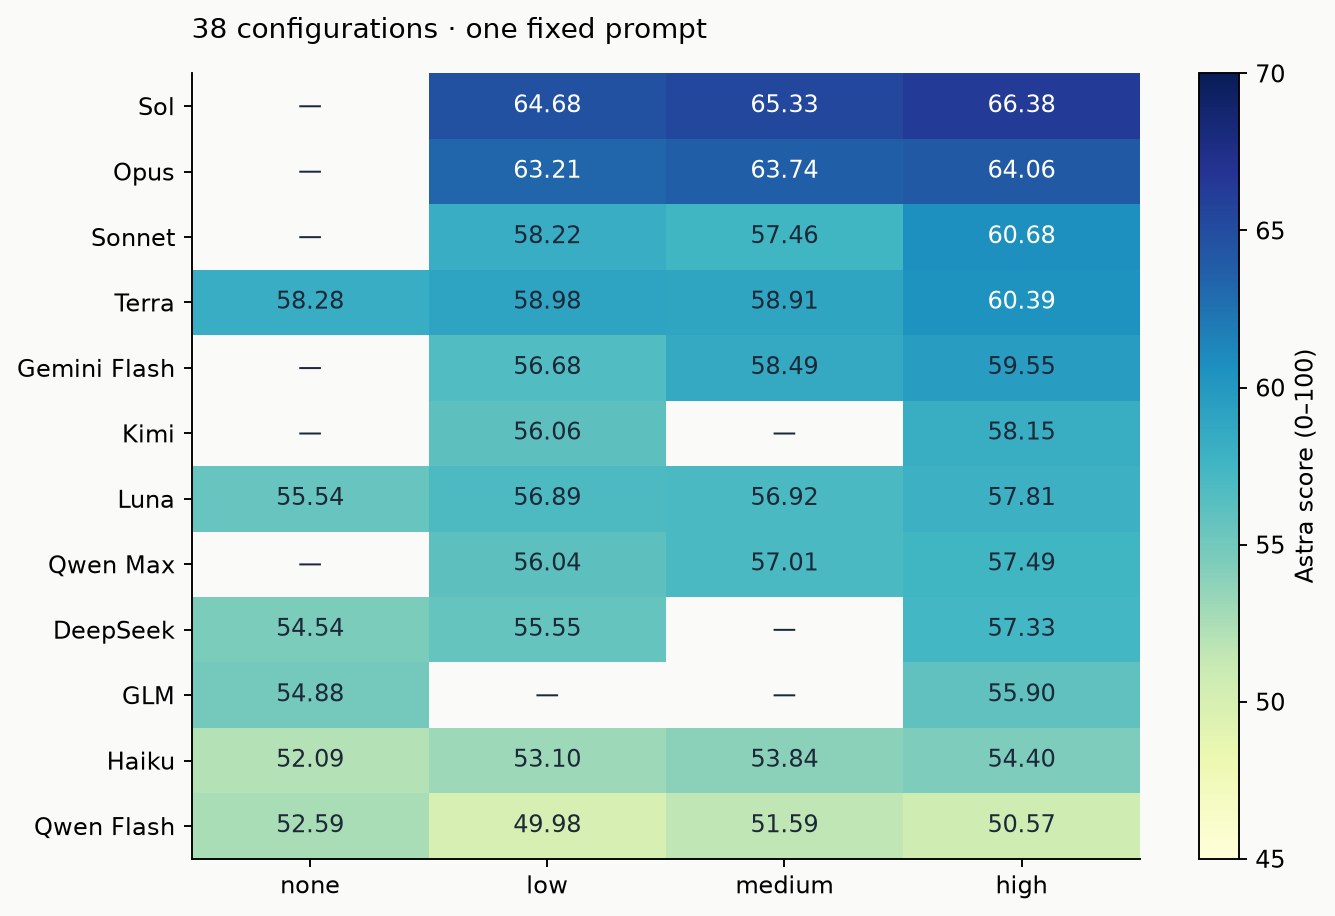
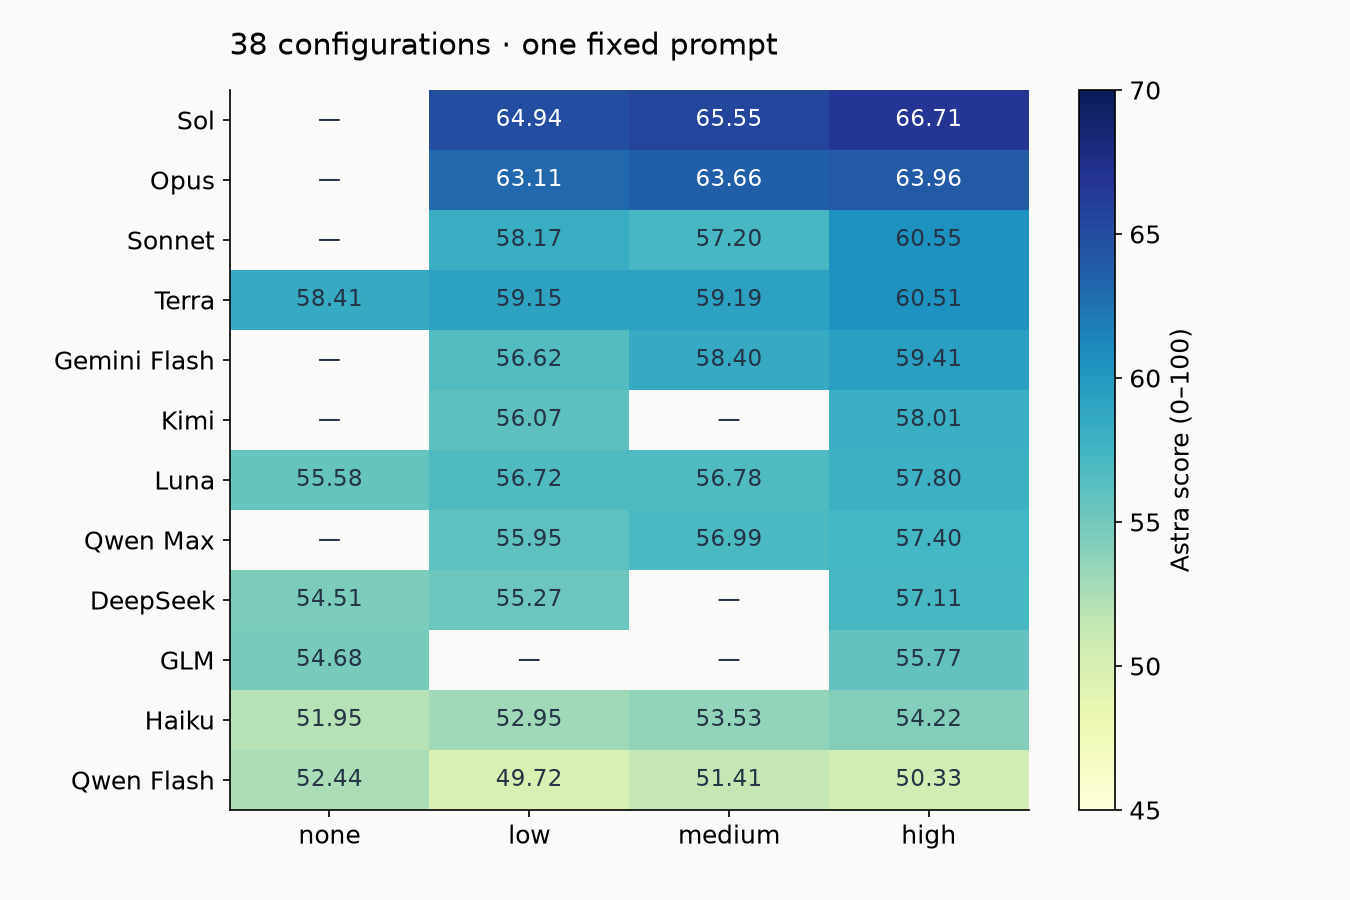
[KNK-1422] Docs: 채팅 AI 벤치마크 재집계 결과와 그래프 갱신

diff --git a/docs/domain/CHAT/AI/6-6-AI-PERFORMANCE-REPORT.md b/docs/domain/CHAT/AI/6-6-AI-PERFORMANCE-REPORT.md
@@ -16,11 +16,11 @@
 | --- | --- |
 | 모델·추론 강도 | 12종, 지원 조합 38개 |
 | 고정 프롬프트 | `chat-general-v2` |
-| 입력 데이터 | `test` |
+| 입력 데이터 | `test-exclude-s21-s49-s57-20261020`, 59개 샘플 |
 | 생성 방식 | 기존 대화의 마지막 AI 답변 1개, 스트리밍 호출 |
 | 평가자 | `gpt-6-astra / high` |
 | 채점 방식 | 평가 모델 프롬프트 v0.3, `single-tail`, 오프라인 평가 |
-| 집계 규모 | 생성 2,356건, 채점 7,068건 |
+| 집계 규모 | 생성 2,242건, 채점 6,726건 |
 
 <details>
 <summary><b>데이터 출처</b></summary>
@@ -29,24 +29,27 @@
 
 | 데이터 | 출처 |
 | --- | --- |
-| 실행 설정·코드 버전 | `evaluation/runs/grid-v2-r1/run.json` |
-| 평가 입력 | `evaluation/datasets/test/*.json` |
+| 원본 실행 설정·코드 버전 | `evaluation/chat/runs/grid-v2-r1/run.json` |
+| 현재 집계 설정·응답 교체 목록 | `evaluation/chat/runs/grid-v2-r1-filtered59-r1-20261020/run.json` |
+| 평가 입력 | `evaluation/chat/datasets/test-exclude-s21-s49-s57-20261020/*.json` — 원본 `test`에서 S21, S49, S57 제외 |
 | 분량 지시 | `prompt/chat/general/CHAT-TEMPLATE-v2.md` 6절 |
-| 생성 결과·시간·토큰·비용 | `evaluation/runs/grid-v2-r1/<config>/*.gen.json` |
-| Astra 3회 채점 결과 | `evaluation/runs/grid-v2-r1/<config>/*.judge-astra.json` |
-| 복구한 첫 토큰 시간 | `evaluation/runs/grid-v2-r1/ttft-recovery/qwen-matched.json`·`openrouter-matched.json` |
-| GLM·DeepSeek TTFT 실측 | `evaluation/runs/grid-v2-r1-ttft/grid-v2-r1-ttft-glm-deepseek-20261018/results.json` |
-| GLM TTFT 재측정 | `evaluation/runs/grid-v2-r1-ttft/grid-v2-r1-ttft-glm-repeat-20261018/results.json` |
+| 생성 결과·시간·토큰·비용 | `evaluation/chat/runs/grid-v2-r1-filtered59-r1-20261020/<config>/*.gen.json` |
+| Astra 3회 채점 결과 | `evaluation/chat/runs/grid-v2-r1-filtered59-r1-20261020/<config>/*.judge-astra.json` — 기존 6,714회와 재생성 응답 4건의 신규 12회 |
+| 채택한 1차 재생성 3건·코드 버전 | `evaluation/chat/runs/grid-v2-r1-remaining-refusals-retry-20261020-143836/`의 `run.json`과 `<config>/<sample>.gen.json` — Terra low의 S38, Luna none의 S33, Haiku none의 S11 |
+| 채택한 2차 재생성 1건·코드 버전 | `evaluation/chat/runs/grid-v2-r1-terra-medium-s33-retry2-20261020-144056/`의 `run.json`과 `general-v2__gpt-5.6-terra__medium/S33.gen.json` — Terra medium의 S33 |
+| 복구한 첫 토큰 시간 | `evaluation/chat/runs/grid-v2-r1/ttft-recovery/qwen-matched.json`·`openrouter-matched.json` |
+| GLM·DeepSeek TTFT 실측 | `evaluation/chat/runs/grid-v2-r1-ttft/grid-v2-r1-ttft-glm-deepseek-20261018/results.json` |
+| GLM TTFT 재측정 | `evaluation/chat/runs/grid-v2-r1-ttft/grid-v2-r1-ttft-glm-repeat-20261018/results.json` |
 | Kimi 길이별 TTFT 선정 | high: 전체 62개 입력의 최소·중앙·최대(S24·S07·S62), low: 복구된 18개 입력의 최소·중앙·최대(S57·S58·S62). 평균은 선택한 3건의 산술평균이며 공급자 첫 토큰 기준 |
-| Gemini TTFT 실측 | `evaluation/runs/grid-v2-r1-ttft/grid-v2-r1-ttft-gemini-20261018/results.json` |
-| GPT Luna TTFT 실측 | `evaluation/runs/grid-v2-r1-ttft/grid-v2-r1-ttft-luna-20261018/results.json` |
-| Haiku·Sonnet TTFT 실측 | `evaluation/runs/grid-v2-r1-ttft/grid-v2-r1-ttft-haiku-sonnet-20261018/results.json` |
-| Sol low TTFT 실측 | `evaluation/runs/grid-v2-r1-ttft/grid-v2-r1-ttft-sol-low-openrouter-20261018/results.json` — OpenRouter → OpenAI 경로, 길이별 1건의 첫 본문 도착 시간 |
-| Sol medium TTFT 실측 | `evaluation/runs/grid-v2-r1-ttft/grid-v2-r1-ttft-sol-medium-openrouter-retry-20261018/results.json` — 짧음·중간은 OpenRouter → OpenAI, 긴 입력은 아래 OpenAI 직접 API 실측값 사용 |
-| Opus TTFT 실측 | `evaluation/runs/grid-v2-r1-ttft/grid-v2-r1-ttft-opus-20261018/results.json` |
-| Terra none TTFT 실측 | `evaluation/runs/grid-v2-r1-ttft/grid-v2-r1-ttft-terra-none-openrouter-20261018/results.json` — 짧음·중간은 OpenRouter → OpenAI, 긴 입력은 아래 OpenAI 직접 API 실측값 사용 |
-| GPT 잔여 TTFT 실측 | `evaluation/runs/grid-v2-r1-ttft/grid-v2-r1-ttft-gpt-direct-remaining-20261019/results.json` — OpenAI 직접 API, 14건 |
-| 집계 기준 시점 | 2026-10-19 KST |
+| Gemini TTFT 실측 | `evaluation/chat/runs/grid-v2-r1-ttft/grid-v2-r1-ttft-gemini-20261018/results.json` |
+| GPT Luna TTFT 실측 | `evaluation/chat/runs/grid-v2-r1-ttft/grid-v2-r1-ttft-luna-20261018/results.json` |
+| Haiku·Sonnet TTFT 실측 | `evaluation/chat/runs/grid-v2-r1-ttft/grid-v2-r1-ttft-haiku-sonnet-20261018/results.json` |
+| Sol low TTFT 실측 | `evaluation/chat/runs/grid-v2-r1-ttft/grid-v2-r1-ttft-sol-low-openrouter-20261018/results.json` — OpenRouter → OpenAI 경로, 길이별 1건의 첫 본문 도착 시간 |
+| Sol medium TTFT 실측 | `evaluation/chat/runs/grid-v2-r1-ttft/grid-v2-r1-ttft-sol-medium-openrouter-retry-20261018/results.json` — 짧음·중간은 OpenRouter → OpenAI, 긴 입력은 아래 OpenAI 직접 API 실측값 사용 |
+| Opus TTFT 실측 | `evaluation/chat/runs/grid-v2-r1-ttft/grid-v2-r1-ttft-opus-20261018/results.json` |
+| Terra none TTFT 실측 | `evaluation/chat/runs/grid-v2-r1-ttft/grid-v2-r1-ttft-terra-none-openrouter-20261018/results.json` — 짧음·중간은 OpenRouter → OpenAI, 긴 입력은 아래 OpenAI 직접 API 실측값 사용 |
+| GPT 잔여 TTFT 실측 | `evaluation/chat/runs/grid-v2-r1-ttft/grid-v2-r1-ttft-gpt-direct-remaining-20261019/results.json` — OpenAI 직접 API, 14건 |
+| 집계 기준 시점 | 2026-10-20 KST |
 
 </details>
 
@@ -59,55 +62,77 @@
 
 **2. 결과와 패턴**
 
-- Qwen 434건과 Kimi 63건은 OpenRouter 경로로 생성되었다.
+- Qwen 413건과 Kimi 59건은 OpenRouter 경로로 생성되었다.
 - 환율은 1$ = 1,345원으로 계산했다.
-- short·mid·long은 조합별 입력 토큰 수가 최소·중앙·최대인 각 1건이다. 모델별 토큰 수가 달라 범위로 표기했다(Kimi low는 복구된 18건 기준).
+- Haiku는 입력 10만 토큰 초과 요청 8건에 입력·출력 단가 5배를 적용했다.
+- DeepSeek 비용은 동일 토큰 사용량에 피크시간과 비피크시간 단가를 각각 적용했다.
+- TTFT 측정에는 벤치마크에서 제외한 S57 샘플이 포함되어 있다.
+- short·mid·long은 조합별 입력 토큰 수가 최소·중앙·최대인 각 1건이다. 모델별 토큰 수가 달라 범위로 표기했다.
   - short: 4,343~8,436토큰
   - mid: 9,046~22,139토큰
   - long: 149,875~276,231토큰
-- Haiku는 입력 10만 토큰 초과 요청 8건에 입력·출력 단가 5배를 적용했다.
-- DeepSeek 비용은 동일 토큰 사용량에 피크시간과 비피크시간 단가를 각각 적용했다.
+
+<details>
+<summary><b>short, mid, long 측정 샘플</b></summary>
+
+<br>
+
+| 모델 공급사 | 적용 조합 | short | mid | long |
+| --- | --- | --- | --- | --- |
+| OpenAI | GPT 전체 | S14 | S06 | S62 |
+| Google | Gemini 전체 | S24 | S06 | S62 |
+| DeepSeek | DeepSeek 전체 | S57 | S06 | S62 |
+| Alibaba | Qwen 전체 | S57 | S06 | S62 |
+| Z.ai | GLM 전체 | S57 | S07 | S62 |
+| Anthropic | Opus, Sonnet 전체와 Haiku low, medium, high | S57 | S07 | S62 |
+| Anthropic | Haiku none | S24 | S07 | S62 |
+| Moonshot AI | Kimi high | S24 | S07 | S62 |
+| Moonshot AI | Kimi low | S57 | S58 | S62 |
+
+</details>
+
+<br>
 
 | id | configuration | 평균 점수 | 3회 점수 | TTFT 평균 (초) | TTFT short (초) | TTFT mid (초) | TTFT long (초) | 생성 p95 (초) | 비용(달러/턴) | 비용(원/턴) |
 | ---: | --- | ---: | --- | ---: | ---: | ---: | ---: | ---: | ---: | ---: |
-| 1 | `gpt-6.1-sol / high` | 66.38 | 66.73<br>66.23<br>66.19 | 34.45 | 28.15 | 43.15 | 32.04 | 75.2 | $0.05550 | 74.65원 |
-| 2 | `gpt-6.1-sol / medium` | 65.33 | 65.40<br>65.48<br>65.10 | 7.16 | 5.33 | 9.47 | 6.67 | 47.8 | $0.04754 | 63.94원 |
-| 3 | `gpt-6.1-sol / low` | 64.68 | 64.73<br>64.65<br>64.68 | 3.86 | 2.88 | 3.54 | 5.15 | 37.2 | $0.04578 | 61.57원 |
-| 4 | `claude-opus-5-5 / high` | 64.06 | 64.24<br>63.95<br>63.98 | 13.55 | 7.16 | 17.31 | 16.17 | 66.7 | $0.18849 | 253.52원 |
-| 5 | `claude-opus-5-5 / medium` | 63.74 | 63.55<br>63.44<br>64.23 | 9.90 | 5.70 | 11.03 | 12.98 | 43.8 | $0.16511 | 222.08원 |
-| 6 | `claude-opus-5-5 / low` | 63.21 | 63.19<br>63.35<br>63.08 | 7.57 | 5.65 | 8.47 | 8.58 | 33.1 | $0.15169 | 204.02원 |
-| 7 | `claude-sonnet-5-5 / high` | 60.68 | 60.84<br>60.68<br>60.53 | 9.71 | 4.02 | 15.31 | 9.79 | 38.0 | $0.08326 | 111.99원 |
-| 8 | `gpt-5.6-terra / high` | 60.39 | 60.37<br>60.39<br>60.40 | 5.44 | 2.41 | 7.16 | 6.73 | 40.0 | $0.05274 | 70.94원 |
-| 9 | `gemini-3.8-flash / high` | 59.55 | 59.71<br>59.61<br>59.34 | 19.73 | 22.48 | 19.50 | 17.22 | 75.2 | $0.02703 | 36.35원 |
-| 10 | `gpt-5.6-terra / low` | 58.98 | 59.24<br>58.77<br>58.94 | 2.53 | 1.28 | 2.51 | 3.81 | 18.9 | $0.04554 | 61.25원 |
-| 11 | `gpt-5.6-terra / medium` | 58.91 | 59.03<br>58.68<br>59.02 | 2.54 | 1.28 | 1.64 | 4.71 | 19.3 | $0.04670 | 62.81원 |
-| 12 | `gemini-3.8-flash / medium` | 58.49 | 58.35<br>58.82<br>58.31 | 5.75 | 4.60 | 5.79 | 6.87 | 25.9 | $0.01774 | 23.86원 |
-| 13 | `gpt-5.6-terra / none` | 58.28 | 57.94<br>58.69<br>58.21 | 2.34 | 1.88 | 1.87 | 3.26 | 13.4 | $0.04160 | 55.95원 |
-| 14 | `claude-sonnet-5-5 / low` | 58.22 | 58.08<br>58.18<br>58.40 | 4.50 | 1.05 | 1.32 | 11.15 | 17.8 | $0.06678 | 89.82원 |
-| 15 | `kimi-k3 / high` | 58.15 | 57.90<br>58.23<br>58.32 | 12.83 | 5.42 | 9.84 | 23.24 | 50.6 | $0.09508 | 127.88원 |
-| 16 | `gpt-6-luna / high` | 57.81 | 57.65<br>57.95<br>57.84 | 19.60 | 7.86 | 29.46 | 21.48 | 47.2 | $0.00292 | 3.93원 |
-| 17 | `qwen3.8-max / high` | 57.49 | 57.44<br>57.31<br>57.74 | 3.69 | 1.83 | 2.29 | 6.95 | 362.5 | $0.07696 | 103.51원 |
-| 18 | `claude-sonnet-5-5 / medium` | 57.46 | 57.19<br>57.47<br>57.71 | 5.11 | 3.06 | 1.35 | 10.90 | 23.7 | $0.06935 | 93.27원 |
-| 19 | `deepseek-flash / high` | 57.33 | 57.50<br>57.40<br>57.08 | 4.56 | 4.15 | 4.05 | 5.47 | 38.4 | $0.00915<br>$0.00457 | 12.30원<br>6.15원 |
-| 20 | `qwen3.8-max / medium` | 57.01 | 56.98<br>57.03<br>57.02 | 3.70 | 1.70 | 4.07 | 5.32 | 49.5 | $0.03729 | 50.16원 |
-| 21 | `gpt-6-luna / medium` | 56.92 | 57.05<br>57.11<br>56.60 | 7.75 | 3.55 | 9.04 | 10.65 | 31.4 | $0.00260 | 3.50원 |
-| 22 | `gpt-6-luna / low` | 56.89 | 57.05<br>56.65<br>56.97 | 3.98 | 2.12 | 4.47 | 5.36 | 15.9 | $0.00211 | 2.83원 |
-| 23 | `gemini-3.8-flash / low` | 56.68 | 56.89<br>56.53<br>56.63 | 3.10 | 2.60 | 1.86 | 4.86 | 11.9 | $0.01411 | 18.98원 |
-| 24 | `kimi-k3 / low` | 56.06 | 56.16<br>55.87<br>56.15 | 9.64 | 3.59 | 5.18 | 20.16 | 41.8 | $0.08767 | 117.92원 |
-| 25 | `qwen3.8-max / low` | 56.04 | 56.18<br>56.37<br>55.58 | 5.64 | 4.63 | 3.27 | 9.01 | 39.0 | $0.03634 | 48.88원 |
-| 26 | `glm-5.2 / high` | 55.90 | 56.06<br>55.65<br>55.98 | 8.95 | 7.32 | 11.08 | 8.46 | 29.7 | $0.03564 | 47.93원 |
-| 27 | `deepseek-flash / low` | 55.55 | 55.42<br>55.76<br>55.48 | 4.46 | 1.75 | 4.30 | 7.33 | 21.9 | $0.00765<br>$0.00383 | 10.30원<br>5.15원 |
-| 28 | `gpt-6-luna / none` | 55.54 | 55.53<br>55.44<br>55.65 | 2.14 | 2.31 | 1.87 | 2.23 | 10.6 | $0.00196 | 2.64원 |
-| 29 | `glm-5.2 / none` | 54.88 | 54.76<br>55.05<br>54.84 | 10.34 | 2.50 | 2.71 | 25.81 | 25.3 | $0.03449 | 46.39원 |
-| 30 | `deepseek-flash / none` | 54.54 | 54.37<br>54.32<br>54.92 | 1.60 | 0.50 | 0.78 | 3.53 | 9.5 | $0.00653<br>$0.00327 | 8.79원<br>4.39원 |
-| 31 | `claude-haiku-5-5 / high` | 54.40 | 54.53<br>54.34<br>54.34 | 22.24 | 11.11 | 30.04 | 25.58 | 32.1 | $0.00795 | 10.70원 |
-| 32 | `claude-haiku-5-5 / medium` | 53.84 | 53.90<br>53.89<br>53.73 | 9.50 | 5.06 | 7.97 | 15.46 | 20.9 | $0.00711 | 9.56원 |
-| 33 | `claude-haiku-5-5 / low` | 53.10 | 53.42<br>53.05<br>52.82 | 6.68 | 3.59 | 7.01 | 9.45 | 15.8 | $0.00652 | 8.77원 |
-| 34 | `qwen3.8-flash / none` | 52.59 | 52.55<br>52.69<br>52.52 | 2.59 | 1.28 | 0.93 | 5.57 | 19.9 | $0.00247 | 3.32원 |
-| 35 | `claude-haiku-5-5 / none` | 52.09 | 51.94<br>52.19<br>52.13 | 7.34 | 1.24 | 1.44 | 19.33 | 10.2 | $0.00649 | 8.72원 |
-| 36 | `qwen3.8-flash / medium` | 51.59 | 51.37<br>51.60<br>51.81 | 3.06 | 1.96 | 0.78 | 6.44 | 215.9 | $0.00533 | 7.17원 |
-| 37 | `qwen3.8-flash / high` | 50.57 | 50.24<br>50.84<br>50.63 | 1.71 | 0.57 | 0.97 | 3.60 | 258.1 | $0.00532 | 7.15원 |
-| 38 | `qwen3.8-flash / low` | 49.98 | 49.97<br>50.05<br>49.92 | 2.67 | 1.45 | 0.85 | 5.70 | 202.3 | $0.00506 | 6.81원 |
+| 1 | `gpt-6.1-sol / high` | 66.71 | 67.08<br>66.68<br>66.37 | 34.45 | 28.15 | 43.15 | 32.04 | 75.7 | $0.05697 | 76.63원 |
+| 2 | `gpt-6.1-sol / medium` | 65.55 | 65.68<br>65.69<br>65.29 | 7.16 | 5.33 | 9.47 | 6.67 | 48.4 | $0.04863 | 65.40원 |
+| 3 | `gpt-6.1-sol / low` | 64.94 | 65.08<br>64.93<br>64.80 | 3.86 | 2.88 | 3.54 | 5.15 | 37.3 | $0.04701 | 63.22원 |
+| 4 | `claude-opus-5-5 / high` | 63.96 | 64.19<br>63.83<br>63.86 | 13.55 | 7.16 | 17.31 | 16.17 | 68.3 | $0.19328 | 259.97원 |
+| 5 | `claude-opus-5-5 / medium` | 63.66 | 63.51<br>63.25<br>64.20 | 9.90 | 5.70 | 11.03 | 12.98 | 43.9 | $0.16879 | 227.03원 |
+| 6 | `claude-opus-5-5 / low` | 63.11 | 63.07<br>63.27<br>62.98 | 7.57 | 5.65 | 8.47 | 8.58 | 34.7 | $0.15514 | 208.66원 |
+| 7 | `claude-sonnet-5-5 / high` | 60.55 | 60.75<br>60.51<br>60.39 | 9.71 | 4.02 | 15.31 | 9.79 | 42.6 | $0.08513 | 114.51원 |
+| 8 | `gpt-5.6-terra / high` | 60.51 | 60.56<br>60.53<br>60.46 | 5.44 | 2.41 | 7.16 | 6.73 | 40.6 | $0.05424 | 72.95원 |
+| 9 | `gemini-3.8-flash / high` | 59.41 | 59.53<br>59.47<br>59.22 | 19.73 | 22.48 | 19.50 | 17.22 | 82.8 | $0.02715 | 36.52원 |
+| 10 | `gpt-5.6-terra / medium` | 59.19 | 59.25<br>58.90<br>59.41 | 2.54 | 1.28 | 1.64 | 4.71 | 21.3 | $0.04811 | 64.71원 |
+| 11 | `gpt-5.6-terra / low` | 59.15 | 59.42<br>58.95<br>59.08 | 2.53 | 1.28 | 2.51 | 3.81 | 19.4 | $0.04687 | 63.04원 |
+| 12 | `gpt-5.6-terra / none` | 58.41 | 58.05<br>58.86<br>58.32 | 2.34 | 1.88 | 1.87 | 3.26 | 13.4 | $0.04282 | 57.59원 |
+| 13 | `gemini-3.8-flash / medium` | 58.40 | 58.25<br>58.71<br>58.24 | 5.75 | 4.60 | 5.79 | 6.87 | 26.1 | $0.01802 | 24.24원 |
+| 14 | `claude-sonnet-5-5 / low` | 58.17 | 58.03<br>58.08<br>58.39 | 4.50 | 1.05 | 1.32 | 11.15 | 17.8 | $0.06825 | 91.79원 |
+| 15 | `kimi-k3 / high` | 58.01 | 57.73<br>58.15<br>58.15 | 12.83 | 5.42 | 9.84 | 23.24 | 58.1 | $0.08675 | 116.68원 |
+| 16 | `gpt-6-luna / high` | 57.80 | 57.61<br>57.92<br>57.88 | 19.60 | 7.86 | 29.46 | 21.48 | 52.8 | $0.00299 | 4.02원 |
+| 17 | `qwen3.8-max / high` | 57.40 | 57.32<br>57.25<br>57.63 | 3.69 | 1.83 | 2.29 | 6.95 | 392.5 | $0.07490 | 100.74원 |
+| 18 | `claude-sonnet-5-5 / medium` | 57.20 | 57.02<br>57.20<br>57.37 | 5.11 | 3.06 | 1.35 | 10.90 | 29.6 | $0.07044 | 94.74원 |
+| 19 | `deepseek-flash / high` | 57.11 | 57.25<br>57.19<br>56.88 | 4.56 | 4.15 | 4.05 | 5.47 | 48.9 | $0.00930<br>$0.00465 | 12.51원<br>6.25원 |
+| 20 | `qwen3.8-max / medium` | 56.99 | 56.97<br>57.02<br>57.00 | 3.70 | 1.70 | 4.07 | 5.32 | 51.1 | $0.03808 | 51.22원 |
+| 21 | `gpt-6-luna / medium` | 56.78 | 56.83<br>56.95<br>56.56 | 7.75 | 3.55 | 9.04 | 10.65 | 31.4 | $0.00251 | 3.37원 |
+| 22 | `gpt-6-luna / low` | 56.72 | 56.88<br>56.44<br>56.83 | 3.98 | 2.12 | 4.47 | 5.36 | 16.1 | $0.00216 | 2.90원 |
+| 23 | `gemini-3.8-flash / low` | 56.62 | 56.76<br>56.49<br>56.59 | 3.10 | 2.60 | 1.86 | 4.86 | 12.1 | $0.01443 | 19.41원 |
+| 24 | `kimi-k3 / low` | 56.07 | 56.19<br>55.88<br>56.15 | 9.64 | 3.59 | 5.18 | 20.16 | 44.5 | $0.08412 | 113.14원 |
+| 25 | `qwen3.8-max / low` | 55.95 | 56.17<br>56.24<br>55.44 | 5.64 | 4.63 | 3.27 | 9.01 | 43.2 | $0.03728 | 50.15원 |
+| 26 | `glm-5.2 / high` | 55.77 | 55.92<br>55.51<br>55.88 | 8.95 | 7.32 | 11.08 | 8.46 | 30.2 | $0.03644 | 49.01원 |
+| 27 | `gpt-6-luna / none` | 55.58 | 55.64<br>55.47<br>55.63 | 2.14 | 2.31 | 1.87 | 2.23 | 10.8 | $0.00202 | 2.72원 |
+| 28 | `deepseek-flash / low` | 55.27 | 55.14<br>55.49<br>55.19 | 4.46 | 1.75 | 4.30 | 7.33 | 25.1 | $0.00775<br>$0.00387 | 10.42원<br>5.21원 |
+| 29 | `glm-5.2 / none` | 54.68 | 54.54<br>54.88<br>54.63 | 10.34 | 2.50 | 2.71 | 25.81 | 27.2 | $0.03531 | 47.49원 |
+| 30 | `deepseek-flash / none` | 54.51 | 54.37<br>54.22<br>54.95 | 1.60 | 0.50 | 0.78 | 3.53 | 9.6 | $0.00669<br>$0.00334 | 8.99원<br>4.50원 |
+| 31 | `claude-haiku-5-5 / high` | 54.22 | 54.39<br>54.12<br>54.15 | 22.24 | 11.11 | 30.04 | 25.58 | 36.9 | $0.00823 | 11.07원 |
+| 32 | `claude-haiku-5-5 / medium` | 53.53 | 53.54<br>53.58<br>53.47 | 9.50 | 5.06 | 7.97 | 15.46 | 21.1 | $0.00735 | 9.89원 |
+| 33 | `claude-haiku-5-5 / low` | 52.95 | 53.25<br>52.92<br>52.69 | 6.68 | 3.59 | 7.01 | 9.45 | 16.3 | $0.00673 | 9.06원 |
+| 34 | `qwen3.8-flash / none` | 52.44 | 52.39<br>52.53<br>52.39 | 2.59 | 1.28 | 0.93 | 5.57 | 22.5 | $0.00253 | 3.41원 |
+| 35 | `claude-haiku-5-5 / none` | 51.95 | 51.80<br>52.02<br>52.03 | 7.34 | 1.24 | 1.44 | 19.33 | 11.7 | $0.00674 | 9.06원 |
+| 36 | `qwen3.8-flash / medium` | 51.41 | 51.22<br>51.49<br>51.51 | 3.06 | 1.96 | 0.78 | 6.44 | 216.3 | $0.00528 | 7.11원 |
+| 37 | `qwen3.8-flash / high` | 50.33 | 49.92<br>50.66<br>50.42 | 1.71 | 0.57 | 0.97 | 3.60 | 271.5 | $0.00541 | 7.27원 |
+| 38 | `qwen3.8-flash / low` | 49.72 | 49.73<br>49.75<br>49.68 | 2.67 | 1.45 | 0.85 | 5.70 | 217.7 | $0.00515 | 6.92원 |
 
 <br>
 
@@ -141,43 +166,6 @@
 **추론 강도에 따른 점수 변화**
 
 ![그림 4. 실험 결과 그래프](IMAGE/grid-v2-r1/04-effort.png)
-
-<br>
-
-**거절 응답이 확인된 config별 점수**
-
-28개 config에서 명시적 거절이 확인되었다. 등장인물의 거절 대사는 제외했다.
-
-| configuration | 전체 평균 점수 | 거절 응답 평균 점수 | 거절 건수 / 전체 |
-| --- | ---: | ---: | ---: |
-| `gpt-6.1-sol / high` | 66.38 | 51.00 | 2 / 62 |
-| `gpt-6.1-sol / medium` | 65.33 | 34.33 | 1 / 62 |
-| `gpt-6.1-sol / low` | 64.68 | 52.83 | 2 / 62 |
-| `claude-opus-5-5 / high` | 64.06 | 68.33 | 1 / 62 |
-| `claude-opus-5-5 / medium` | 63.74 | 69.67 | 1 / 62 |
-| `claude-opus-5-5 / low` | 63.21 | 69.00 | 1 / 62 |
-| `claude-sonnet-5-5 / high` | 60.68 | 68.67 | 1 / 62 |
-| `gpt-5.6-terra / high` | 60.39 | 51.83 | 2 / 62 |
-| `gemini-3.8-flash / high` | 59.55 | 68.33 | 1 / 62 |
-| `gpt-5.6-terra / low` | 58.98 | 48.44 | 3 / 62 |
-| `gpt-5.6-terra / medium` | 58.91 | 45.44 | 3 / 62 |
-| `gemini-3.8-flash / medium` | 58.49 | 68.00 | 1 / 62 |
-| `gpt-5.6-terra / none` | 58.28 | 55.67 | 3 / 62 |
-| `claude-sonnet-5-5 / low` | 58.22 | 36.00 | 1 / 62 |
-| `kimi-k3 / high` | 58.15 | 68.33 | 1 / 62 |
-| `gpt-6-luna / high` | 57.81 | 67.33 | 1 / 62 |
-| `gpt-6-luna / medium` | 56.92 | 68.67 | 1 / 62 |
-| `gpt-6-luna / low` | 56.89 | 52.83 | 2 / 62 |
-| `gemini-3.8-flash / low` | 56.68 | 68.00 | 1 / 62 |
-| `qwen3.8-max / low` | 56.04 | 67.00 | 2 / 62 |
-| `gpt-6-luna / none` | 55.54 | 51.08 | 4 / 62 |
-| `claude-haiku-5-5 / high` | 54.40 | 69.33 | 1 / 62 |
-| `claude-haiku-5-5 / medium` | 53.84 | 71.00 | 1 / 62 |
-| `qwen3.8-flash / none` | 52.59 | 65.00 | 1 / 62 |
-| `claude-haiku-5-5 / none` | 52.09 | 35.17 | 2 / 62 |
-| `qwen3.8-flash / medium` | 51.59 | 65.00 | 1 / 62 |
-| `qwen3.8-flash / high` | 50.57 | 64.67 | 1 / 62 |
-| `qwen3.8-flash / low` | 49.98 | 62.67 | 1 / 62 |
 
 <br>
 
